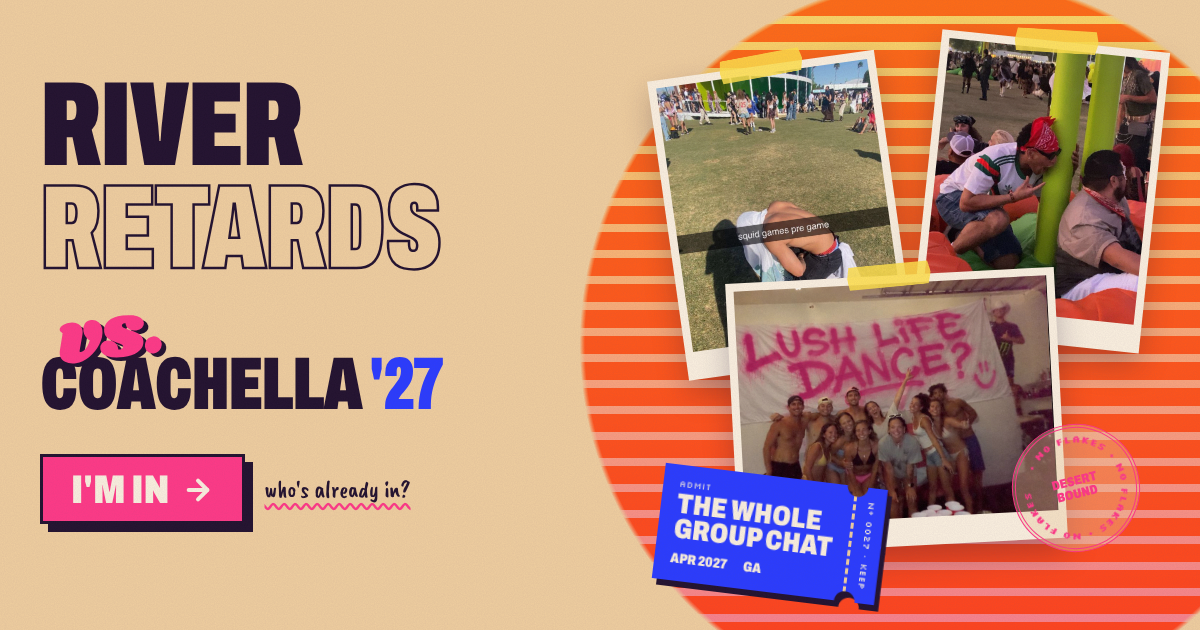
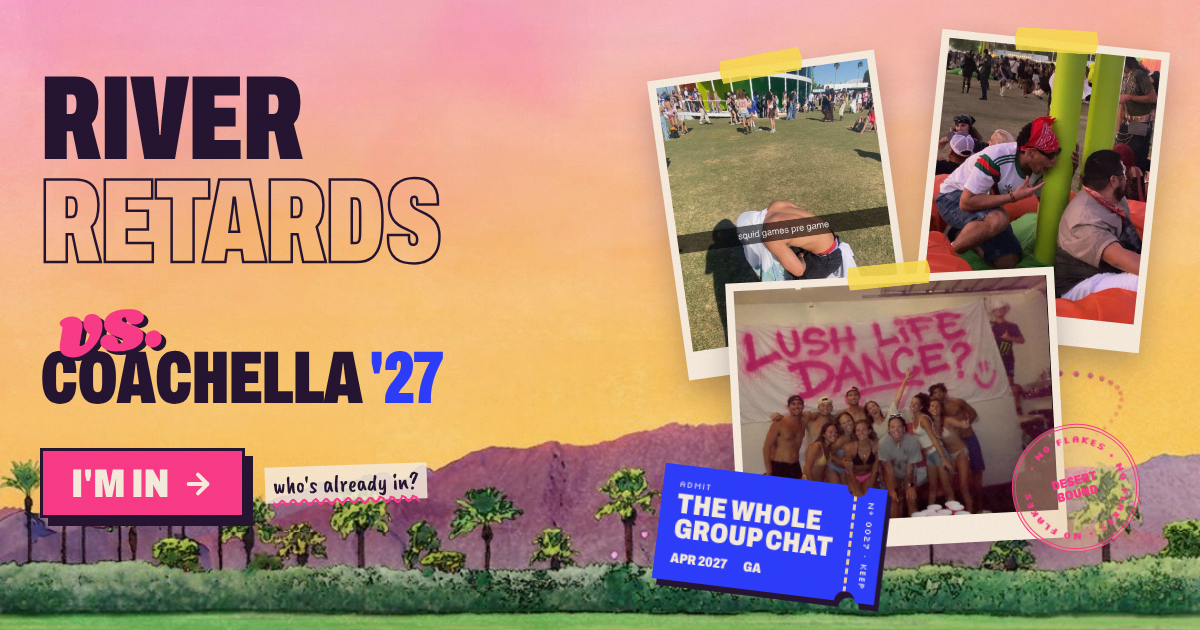
Painted desert background for the opening screen
Replace the striped sun with the watercolor desert painting (framed to show
the mountains and field behind the hero on desktop), move the tap easter egg
to the "vs.", and refresh the share image.

Claude-Session: https://claude.ai/code/session_01K3wG8CVjnMFem476zAtZFS

diff --git a/src/components/Hero.jsx b/src/components/Hero.jsx
@@ -9,7 +9,7 @@ export default function Hero({ onSunTap }) {
   const ref = useRef(null);
   const reduce = useReducedMotion();
   const { scrollYProgress } = useScroll({ target: ref, offset: ["start start", "end start"] });
-  const sunY = useTransform(scrollYProgress, [0, 1], [0, reduce ? 0 : 140]);
+  const bgY = useTransform(scrollYProgress, [0, 1], [0, reduce ? 0 : 90]);
   const collageY = useTransform(scrollYProgress, [0, 1], [0, reduce ? 0 : -60]);
 
   const go = (e) => {
@@ -23,17 +23,12 @@ export default function Hero({ onSunTap }) {
 
   return (
     <header ref={ref} className="relative overflow-hidden pt-6 pb-16 sm:pt-10 sm:pb-24">
-      {/* the sun: tap it a few times */}
-      <motion.button
-        type="button"
-        onClick={onSunTap}
-        aria-label="The sun"
-        style={{ y: sunY }}
-        className="absolute z-0 -right-[38vw] top-[34%] w-[118vw] max-w-[760px] aspect-square rounded-full sm:-right-[10%] sm:top-[-4%] sm:w-[62vw]"
-      >
-        <span className="absolute inset-0 rounded-full sun-stripes opacity-90" style={{ WebkitMask: "radial-gradient(circle,#000 69%,transparent 70%)", mask: "radial-gradient(circle,#000 69%,transparent 70%)" }} />
-        <span className="absolute inset-0 rounded-full bg-gradient-to-b from-tape/70 to-pink/60 mix-blend-multiply" style={{ WebkitMask: "radial-gradient(circle,#000 69%,transparent 70%)", mask: "radial-gradient(circle,#000 69%,transparent 70%)" }} />
-      </motion.button>
+      {/* painted desert sky */}
+      <motion.div
+        aria-hidden="true"
+        style={{ y: bgY, backgroundImage: "url(/hero/desert-bg.jpg)" }}
+        className="absolute inset-x-0 -top-[8%] -bottom-[2%] z-0 bg-cover bg-[position:center_bottom] md:bg-[position:center_80%]"
+      />
 
       <div className="gutter relative z-10 mx-auto max-w-6xl grid gap-6 md:grid-cols-[1.2fr_1fr] md:items-center pointer-events-none">
         <div className="pointer-events-auto">
@@ -45,7 +40,7 @@ export default function Hero({ onSunTap }) {
               <motion.span className="block outline-ink" {...line(1)}>RETARDS</motion.span>
             </span>
             <span className="block relative z-10 -my-[.12em] ml-[.15em]" aria-hidden="true">
-              <motion.span className="inline-block font-script normal-case text-pink text-[.6em] tracking-normal [text-shadow:4px_4px_0_#22122e]"
+              <motion.span onClick={onSunTap} className="inline-block cursor-pointer select-none font-script normal-case text-pink text-[.6em] tracking-normal [text-shadow:4px_4px_0_#22122e]"
                 initial={reduce ? false : { scale: 2.4, rotate: -30, opacity: 0 }} animate={{ scale: 1, rotate: -7, opacity: 1 }}
                 transition={{ type: "spring", stiffness: 420, damping: 14, delay: 0.55 }}>vs.</motion.span>
             </span>
@@ -61,10 +56,10 @@ export default function Hero({ onSunTap }) {
               {me ? "MY PASS" : "I'M IN"}
               <ArrowRight className="w-8 h-8 transition-transform group-hover:translate-x-1.5" strokeWidth={3} aria-hidden="true" />
             </a>
-            <a href="#roster" className="font-hand text-2xl underline decoration-wavy decoration-pink underline-offset-[6px]">who's already in?</a>
+            <a href="#roster" className="font-hand text-2xl underline decoration-wavy decoration-pink underline-offset-[6px] bg-paper/85 px-2 py-0.5 -rotate-2">who's already in?</a>
           </motion.div>
 
-          <p className="mt-6 pixel text-[11px] sm:text-xs flex items-center gap-2.5" aria-live="polite">
+          <p className="mt-6 pixel text-[11px] sm:text-xs flex w-fit items-center gap-2.5 bg-paper/85 px-2.5 py-1.5" aria-live="polite">
             <span className="w-2.5 h-2.5 rounded-full bg-pink live-dot" aria-hidden="true" />
             {status === "ready"
               ? ins.length

diff --git a/src/components/Footer.jsx b/src/components/Footer.jsx
@@ -10,7 +10,7 @@ export default function Footer() {
           </p>
           <p className="pixel text-[10px] text-paper/60 mt-4">MADE FOR THE GROUP CHAT · NOT AFFILIATED WITH COACHELLA OR GOLDENVOICE</p>
         </div>
-        <Hand className="text-tape text-xl max-w-[22ch]" rotate={-4}>psst. the sun likes being tapped.</Hand>
+        <Hand className="text-tape text-xl max-w-[22ch]" rotate={-4}>psst. the "vs." likes being tapped.</Hand>
       </div>
     </footer>
   );

diff --git a/README.md b/README.md
@@ -143,7 +143,7 @@ Use the Supabase dashboard → **Table Editor**:
 
 ## Easter eggs
 
-- Tap the sun five times.
+- Tap the pink "vs." in the headline five times.
 - On a keyboard, type `desert` anywhere on the page (or the Konami code).
 - Tap any pass on the roster to flip it.
 
